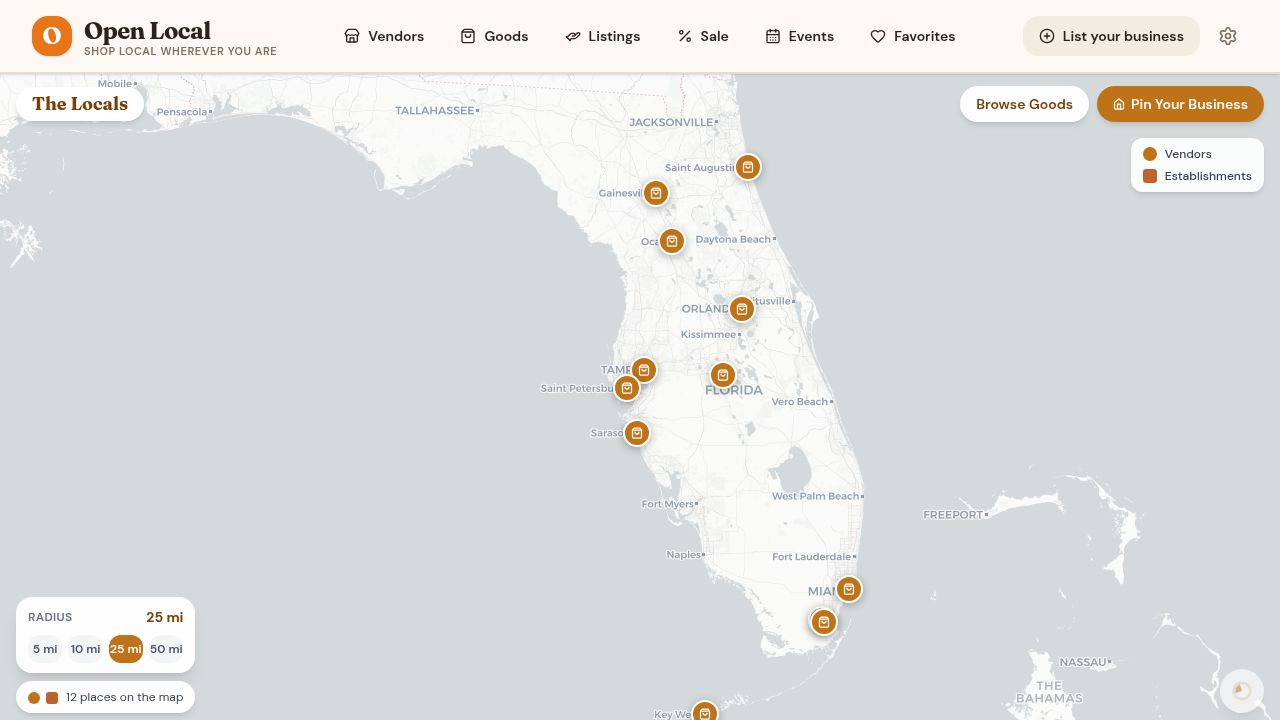
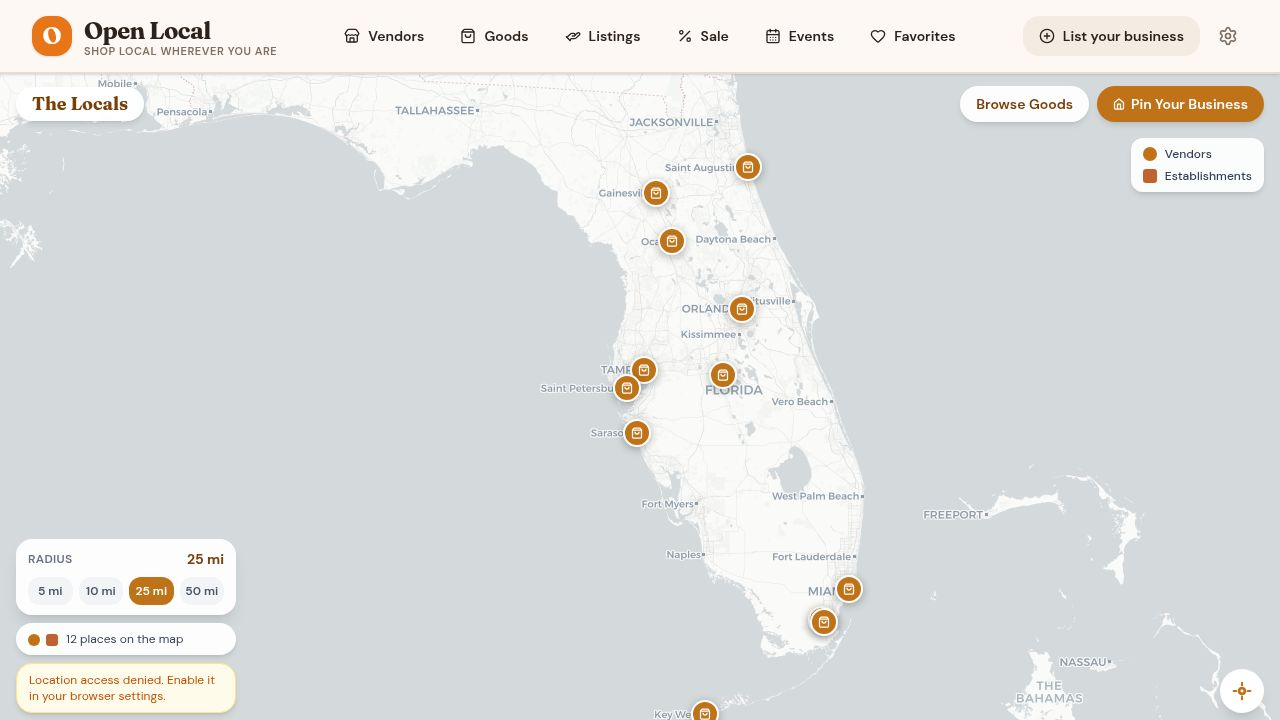
Remove development error overlay for a cleaner user experience
Remove the runtime error overlay plugin from Vite configuration to prevent development tooling errors from blocking the application view.

Replit-Commit-Author: Agent
Replit-Commit-Session-Id: 67b28bf8-78d2-47e3-b51a-38f5e3487ab5
Replit-Commit-Checkpoint-Type: full_checkpoint
Replit-Commit-Event-Id: da912028-b5f0-4209-9fe4-d8554e12fd4f
Replit-Commit-Screenshot-Url: https://storage.googleapis.com/screenshot-production-us-central1/0cfc9c61-97bb-4f43-a338-3628515d6d69/67b28bf8-78d2-47e3-b51a-38f5e3487ab5/gVXwSx1
Replit-Helium-Checkpoint-Created: true

Changed region(s): [[0.0, 0.7333, 0.1875, 1.0], [0.9375, 0.9472, 1.0, 0.9778]]

diff --git a/artifacts/open-local/vite.config.ts b/artifacts/open-local/vite.config.ts
@@ -2,7 +2,6 @@ import { defineConfig } from "vite";
 import react from "@vitejs/plugin-react";
 import tailwindcss from "@tailwindcss/vite";
 import path from "path";
-import runtimeErrorOverlay from "@replit/vite-plugin-runtime-error-modal";
 
 const rawPort = process.env.PORT;
 
@@ -31,7 +30,6 @@ export default defineConfig({
   plugins: [
     react(),
     tailwindcss(),
-    runtimeErrorOverlay(),
     ...(process.env.NODE_ENV !== "production" &&
     process.env.REPL_ID !== undefined
       ? [